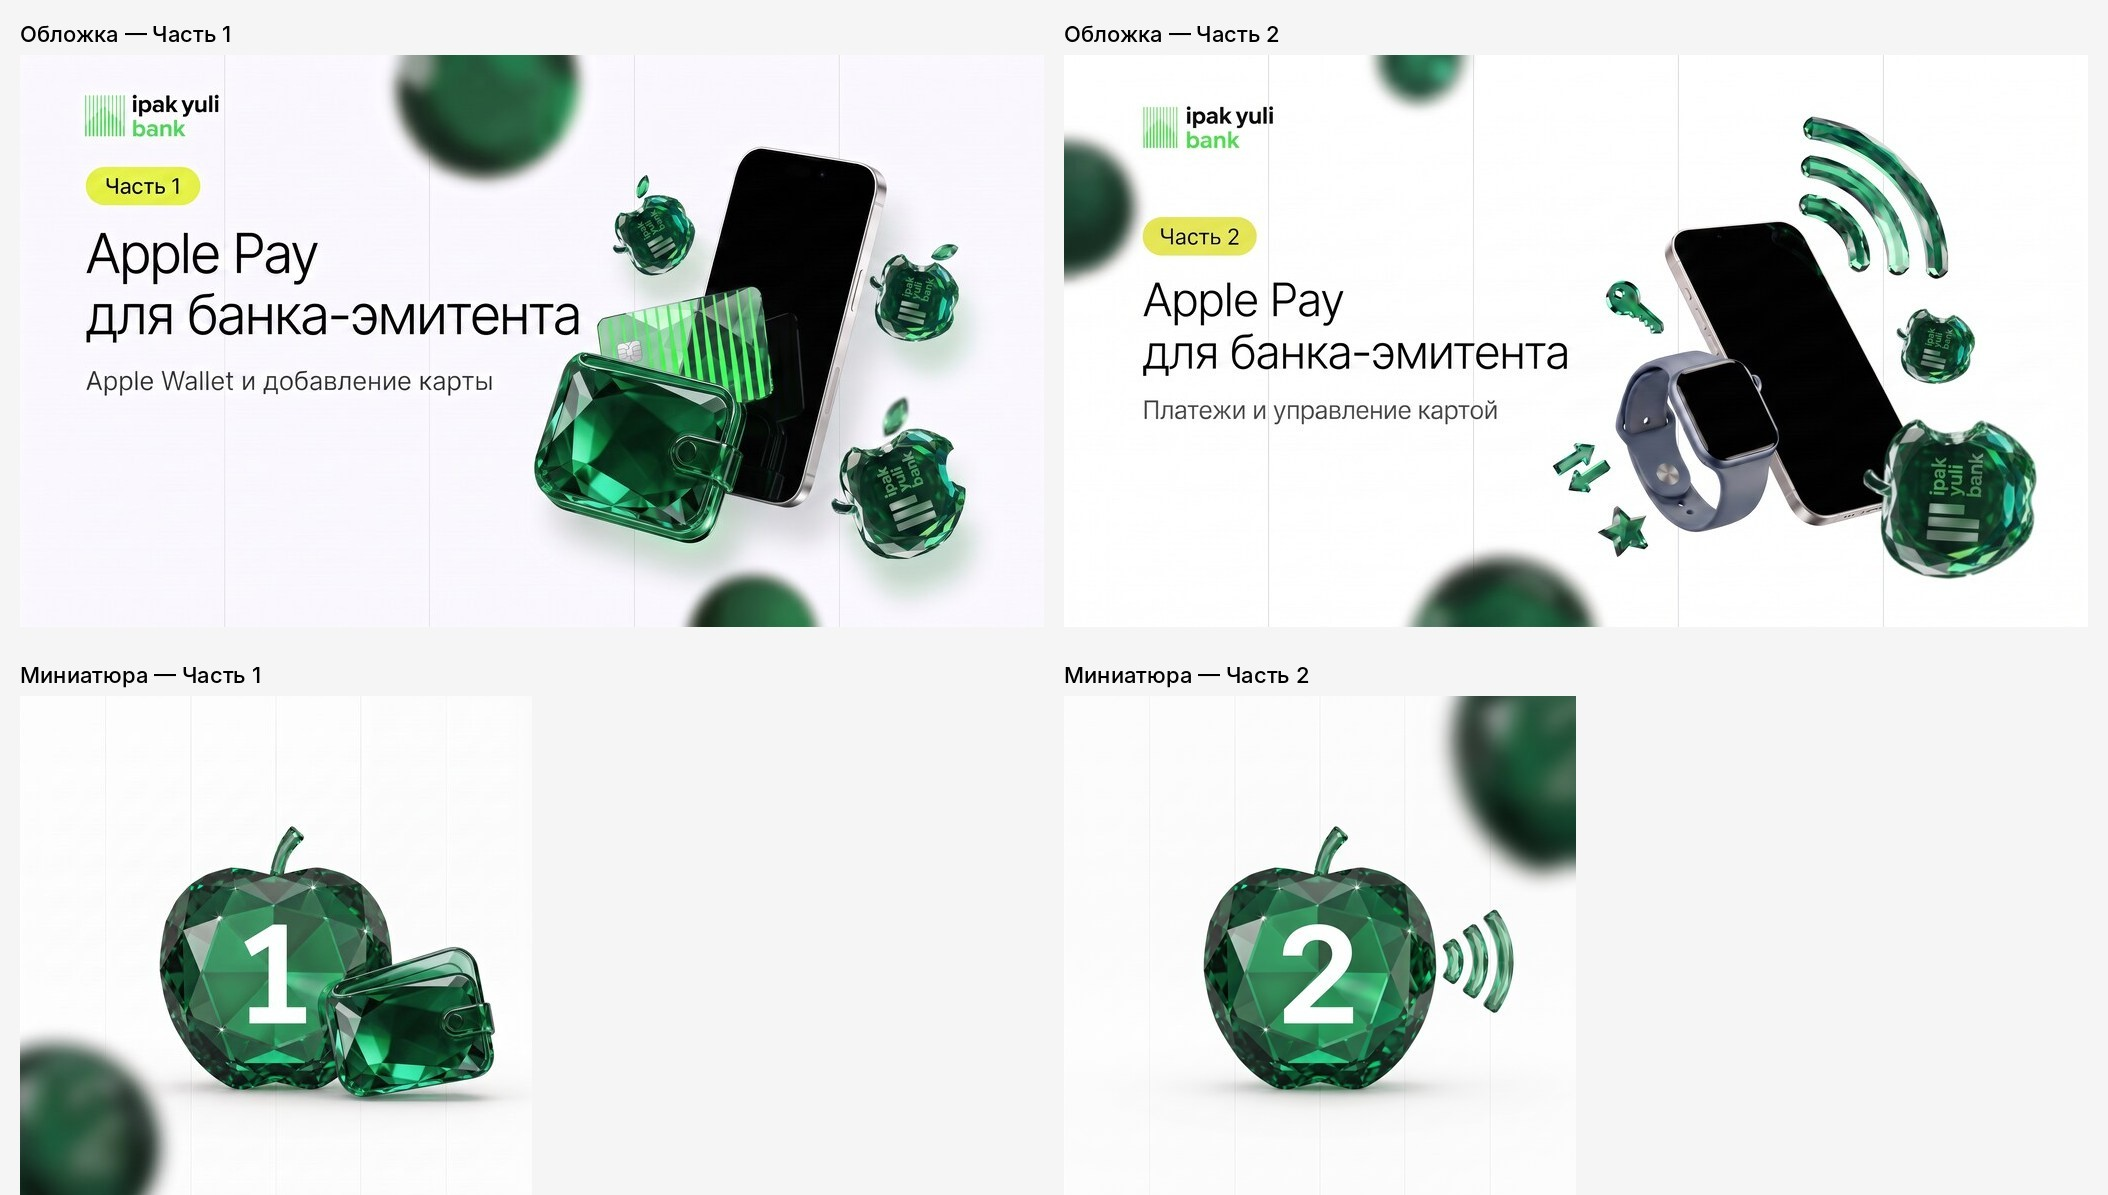
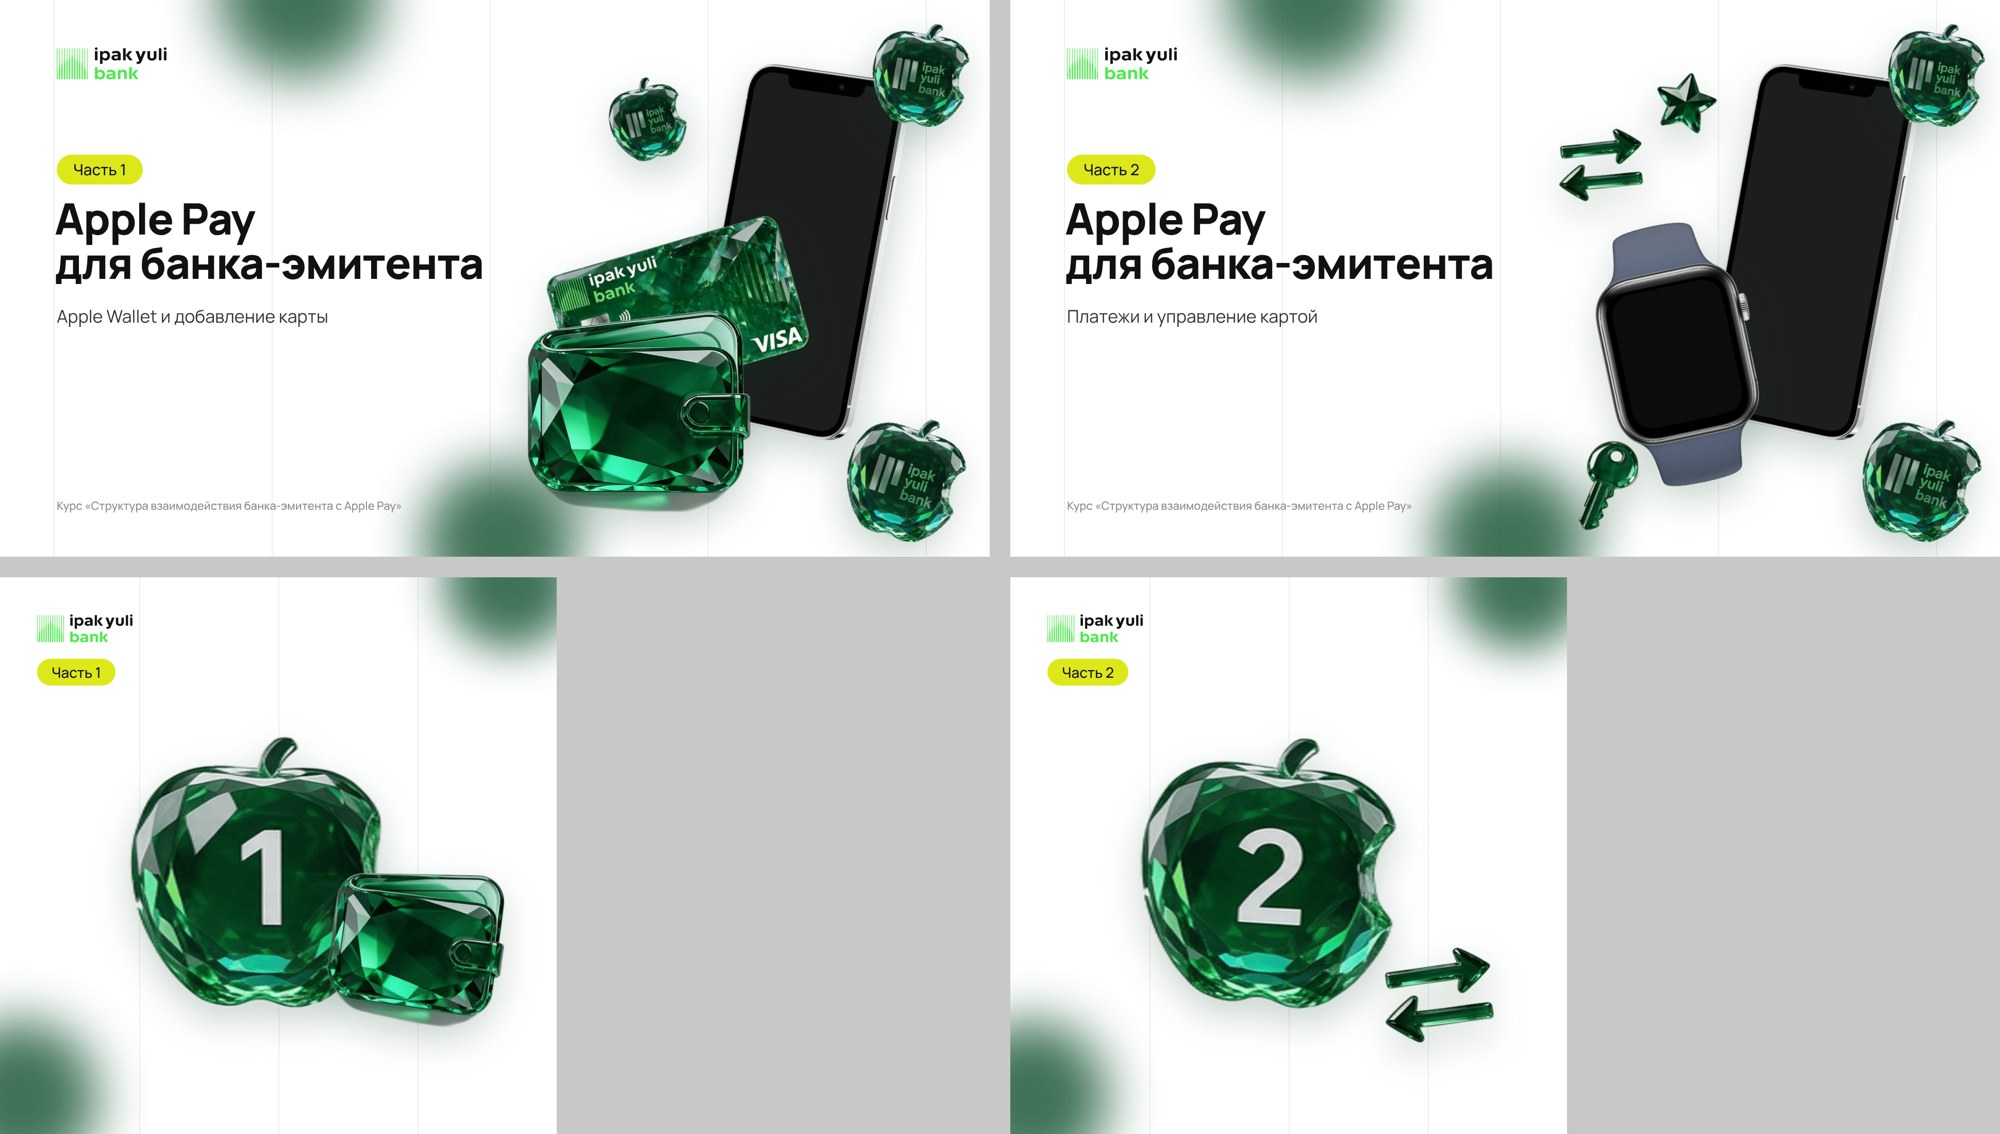
Rebuild Apple Pay course covers from the original course assets
Covers and thumbnails are now composed from the exact emerald objects,
device mockups and logo used in the course deck instead of AI renders.
Includes the HTML/Playwright source to re-render them.

Claude-Session: https://claude.ai/code/session_01KtXLRbSiwwyqMwgBtRZyuF

diff --git a/apple_pay_covers/source/shot.js b/apple_pay_covers/source/shot.js
@@ -1,0 +1,23 @@
+// Renders the generated HTML pages to PNG.
+const { chromium } = require('playwright');
+const path = require('path');
+
+const dir = __dirname;
+const jobs = [
+  ['cover1', 1920, 1080], ['cover2', 1920, 1080],
+  ['thumb1', 1080, 1080], ['thumb2', 1080, 1080],
+];
+
+(async () => {
+  const browser = await chromium.launch();
+  for (const [name, w, h] of jobs) {
+    const page = await browser.newPage({ viewport: { width: w, height: h }, deviceScaleFactor: 1 });
+    await page.goto('file://' + path.join(dir, name + '.html'));
+    await page.evaluate(() => document.fonts.ready);
+    await page.waitForTimeout(300);
+    await page.screenshot({ path: path.join(dir, 'out', name + '.png'), clip: { x: 0, y: 0, width: w, height: h } });
+    await page.close();
+  }
+  await browser.close();
+  console.log('rendered');
+})();

diff --git a/apple_pay_covers/source/make.py b/apple_pay_covers/source/make.py
@@ -1,0 +1,110 @@
+"""Builds cover/thumbnail HTML pages from the course's original assets."""
+import os
+
+B = os.path.dirname(os.path.abspath(__file__))
+A = "file://" + B + "/a/"
+F = "file://" + B + "/package/files/"
+
+LIME = "#DDE81B"
+INK = "#111111"
+
+FONTS = "".join(
+    f"""@font-face{{font-family:Manrope;font-weight:{w};src:url('{F}manrope-{s}-{w}-normal.woff2') format('woff2');}}"""
+    for w in (400, 500, 800) for s in ("latin", "cyrillic")
+)
+
+BASE_CSS = FONTS + f"""
+*{{margin:0;padding:0;box-sizing:border-box}}
+body{{background:#fff}}
+.c{{position:relative;overflow:hidden;background:#fff;font-family:Manrope,sans-serif;color:{INK}}}
+.vl{{position:absolute;top:0;bottom:0;width:2px;background:#EEEEEE}}
+.o{{position:absolute;display:block}}
+.sh{{filter:drop-shadow(0 28px 36px rgba(10,60,30,.22))}}
+.pill{{position:absolute;background:{LIME};border-radius:999px;font-weight:500;line-height:1}}
+.h1{{position:absolute;font-weight:800;letter-spacing:-0.02em;line-height:1.02}}
+.sub{{position:absolute;font-weight:400;color:#333}}
+.cap{{position:absolute;font-weight:500;color:#8a8a8a}}
+"""
+
+
+def img(name, x, y, w, rot=0, z=1, blur=0, shadow=True, op=1.0):
+    f = []
+    if shadow:
+        f.append("drop-shadow(0 28px 36px rgba(10,60,30,.22))")
+    if blur:
+        f.append(f"blur({blur}px)")
+    style = (f"left:{x}px;top:{y}px;width:{w}px;z-index:{z};transform:rotate({rot}deg);"
+             f"filter:{' '.join(f) or 'none'};opacity:{op}")
+    return f'<img class="o" src="{A}{name}" style="{style}">'
+
+
+def bokeh(x, y, d, op=0.85):
+    return (f'<div class="o" style="left:{x}px;top:{y}px;width:{d}px;height:{d}px;border-radius:50%;'
+            f'background:#1E5A3A;filter:blur({d//6}px);opacity:{op};z-index:0"></div>')
+
+
+def lines(xs):
+    return "".join(f'<div class="vl" style="left:{x}px"></div>' for x in xs)
+
+
+def page(w, h, body):
+    return (f"<!doctype html><html><head><meta charset='utf-8'><style>{BASE_CSS}</style></head>"
+            f"<body><div class='c' style='width:{w}px;height:{h}px'>{body}</div></body></html>")
+
+
+def cover_text(part, subtitle):
+    return f"""
+<img class="o" src="{A}logo.png" style="left:110px;top:92px;height:62px;z-index:5">
+<div class="pill" style="left:110px;top:300px;padding:14px 32px;font-size:30px;z-index:5">Часть {part}</div>
+<div class="h1" style="left:106px;top:380px;font-size:84px;z-index:5">Apple Pay<br>для банка-эмитента</div>
+<div class="sub" style="left:110px;top:590px;font-size:34px;z-index:5">{subtitle}</div>
+<div class="cap" style="left:110px;bottom:84px;font-size:22px;z-index:5">Курс «Структура взаимодействия банка-эмитента с Apple Pay»</div>
+"""
+
+
+COVER_LINES = lines([104, 527, 950, 1373, 1796])
+
+cover1 = page(1920, 1080, COVER_LINES + cover_text(1, "Apple Wallet и добавление карты") + "".join([
+    bokeh(420, -170, 320),
+    bokeh(820, 900, 300),
+    img("phone.png", 1340, 120, 430, z=2),
+    img("card.png", 1080, 470, 470, rot=-16, z=3),
+    img("wallet.png", 1020, 600, 440, z=4),
+    img("apple_logo.png", 1690, 40, 190, rot=10, z=5),
+    img("apple_logo.png", 1180, 150, 150, rot=-14, z=5),
+    img("apple_logo.png", 1640, 800, 230, rot=18, z=5),
+]))
+
+cover2 = page(1920, 1080, COVER_LINES + cover_text(2, "Платежи и управление картой") + "".join([
+    bokeh(420, -170, 320),
+    bokeh(820, 900, 300),
+    img("phone.png", 1340, 120, 430, z=2),
+    img("watch_black.png", 1150, 430, 300, rot=-12, z=4),
+    img("ic15_5.png", 1060, 250, 170, rot=-6, z=5),
+    img("ic15_4.png", 1250, 140, 120, rot=12, z=5),
+    img("ic15_2.png", 1080, 860, 150, rot=-20, z=5),
+    img("apple_logo.png", 1700, 40, 190, rot=10, z=5),
+    img("apple_logo.png", 1650, 800, 230, rot=18, z=5),
+]))
+
+THUMB_LINES = lines([270, 540, 810])
+
+
+def thumb(part, digit, extra):
+    return page(1080, 1080, THUMB_LINES + f"""
+<img class="o" src="{A}logo.png" style="left:72px;top:72px;height:54px;z-index:5">
+<div class="pill" style="left:72px;top:158px;padding:12px 28px;font-size:28px;z-index:5">Часть {part}</div>
+""" + "".join([
+        bokeh(-110, 860, 300),
+        bokeh(860, -120, 260),
+        img(digit, 250, 300, 500, z=3),
+    ]) + extra)
+
+
+thumb1 = thumb(1, "digit_1.png", img("wallet.png", 640, 560, 340, rot=8, z=4))
+thumb2 = thumb(2, "digit_2.png", img("ic15_5.png", 720, 720, 220, rot=-8, z=4))
+
+for name, html in [("cover1", cover1), ("cover2", cover2), ("thumb1", thumb1), ("thumb2", thumb2)]:
+    with open(os.path.join(B, name + ".html"), "w", encoding="utf-8") as fh:
+        fh.write(html)
+print("ok")

diff --git a/apple_pay_covers/README.md b/apple_pay_covers/README.md
@@ -2,35 +2,23 @@
 
 ![Превью](preview.jpg)
 
-## Итоговые изображения (Magnific, 2K)
-
-| | Часть 1 — Apple Wallet и добавление карты | Часть 2 — Платежи и управление картой |
+| Файл | Размер | Что это |
 |---|---|---|
-| Обложка 16:9 | [открыть](https://www.magnific.com/app/creation/bxzz6l65Y2) | [открыть](https://www.magnific.com/app/creation/vQ99lEXa47) |
-| Миниатюра 1:1 | [открыть](https://www.magnific.com/app/creation/N2aaBRZ6D9) | [открыть](https://www.magnific.com/app/creation/fH66S92CDY) |
+| `cover_part1.png` | 1920×1080 | обложка, Часть 1 — Apple Wallet и добавление карты |
+| `cover_part2.png` | 1920×1080 | обложка, Часть 2 — Платежи и управление картой |
+| `thumb_part1.png` | 1080×1080 | миниатюра, Часть 1 |
+| `thumb_part2.png` | 1080×1080 | миниатюра, Часть 2 |
 
-Модель: Google Nano Banana 2.1, разрешение 2K. Для печати или крупного баннера сделайте апскейл в Magnific.
+Обложки собраны из оригинальных объектов курса: изумрудных яблок, кошелька, карты, иконок и мокапов устройств из презентации. Логотип банка вставлен как есть. Шрифт Manrope, как в курсе, акцентный цвет #DDE81B.
 
-## Референсы (`refs/`)
+## Как пересобрать
 
-| Файл | Что это |
-|---|---|
-| `apple_logo.png` | изумрудное яблоко с логотипом банка |
-| `wallet.png` | изумрудный кошелёк |
-| `apple_digit.png` | изумрудное яблоко с цифрой |
-| `line_pattern.png` | фирменный паттерн из линий |
-| `logo_light.png` | логотип для светлого фона: «ipak yuli» чёрным, «bank» и линии зелёным |
+Исходники лежат в `source/`: `make.py` генерирует HTML, `shot.js` рендерит его в PNG через Playwright, объекты лежат в `source/a/`.
 
-## Как это собрано
+```bash
+cd source
+npm pack @fontsource/manrope@5.0.20 && tar xzf fontsource-manrope-5.0.20.tgz   # шрифт Manrope
+mkdir -p out && python3 make.py && node shot.js                                  # результат в out/
+```
 
-1. **Базовая сцена (text-to-image).** Белый фон с тонкими вертикальными линиями, серебристый iPhone, предметы из гранёного изумруда, размытые зелёные пятна, левая половина пустая под текст:
-
-   ```
-   Wide presentation cover in a clean minimalist Apple-keynote style. Pure white background, divided into five equal columns by very thin, barely visible light-grey vertical lines, like a layout grid. Right half of the frame: a silver iPhone with a plain black screen (no interface), tilted about 30 degrees to the right, floating. In front of the phone, lower left of it, floats a classic wallet with rounded corners and a small snap strap, sculpted from polished emerald crystal ... Two large, very out-of-focus dark-green blurred circles (bokeh) peek in from the top-left edge and the bottom edge. The entire left half of the image is empty white space reserved for a title. Soft even studio lighting, crisp high-end CGI product render, ultra sharp, premium. No text, no letters, no logos.
-   ```
-
-2. **Заголовки.** Базовая сцена идёт референсом с промтом «Keep the reference image exactly as it is … and only add typography in the empty white left half: a lime (#E2E860) pill "Часть 1", a thin light-weight sans-serif headline "Apple Pay" / "для банка-эмитента", a subtitle "Apple Wallet и добавление карты"».
-
-3. **Фирменные объекты.** К обложке с текстом добавляются референсы из `refs/` и промт: «Keep image 1 exactly … Replace every apple gem with the exact emerald apple from image N, including the "ipak yuli bank" logo … Place the bank logo from image M small in the top-left corner above the lime pill … Replace the wallet with an exact copy of the emerald wallet from image K».
-
-4. **Миниатюры.** Референсом служит `apple_digit.png`: «the exact emerald apple from image 2 — same shape, stem, no bite — with the number "2" instead of "0", in exactly the same white bold sans-serif style». Миниатюра «1» делается с готовой «2» в качестве референса, чтобы серия была единой.
+Тексты, позиции и размеры объектов задаются в `make.py`.
